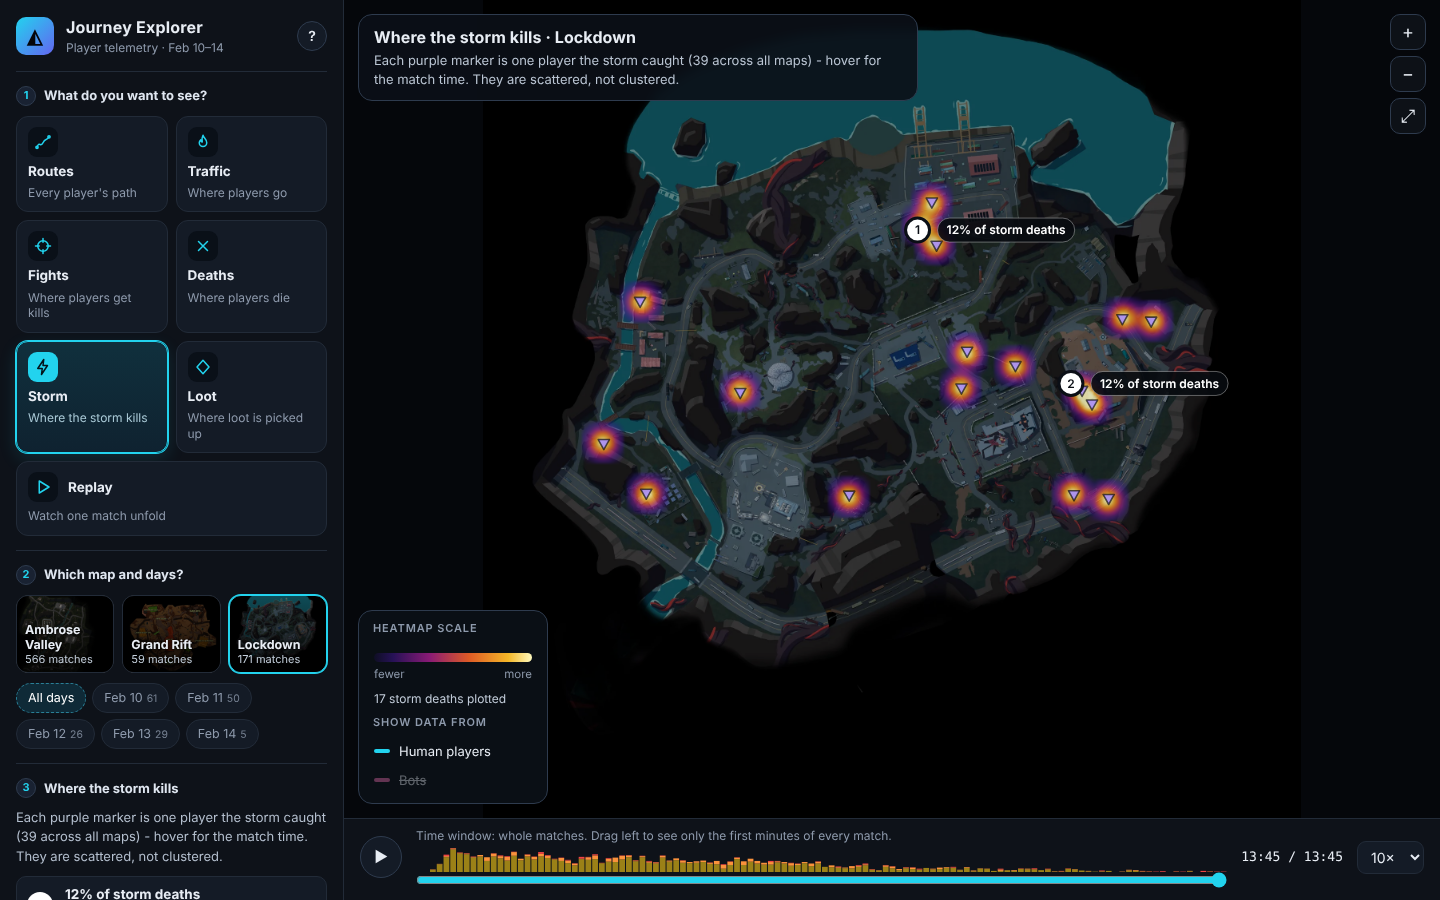
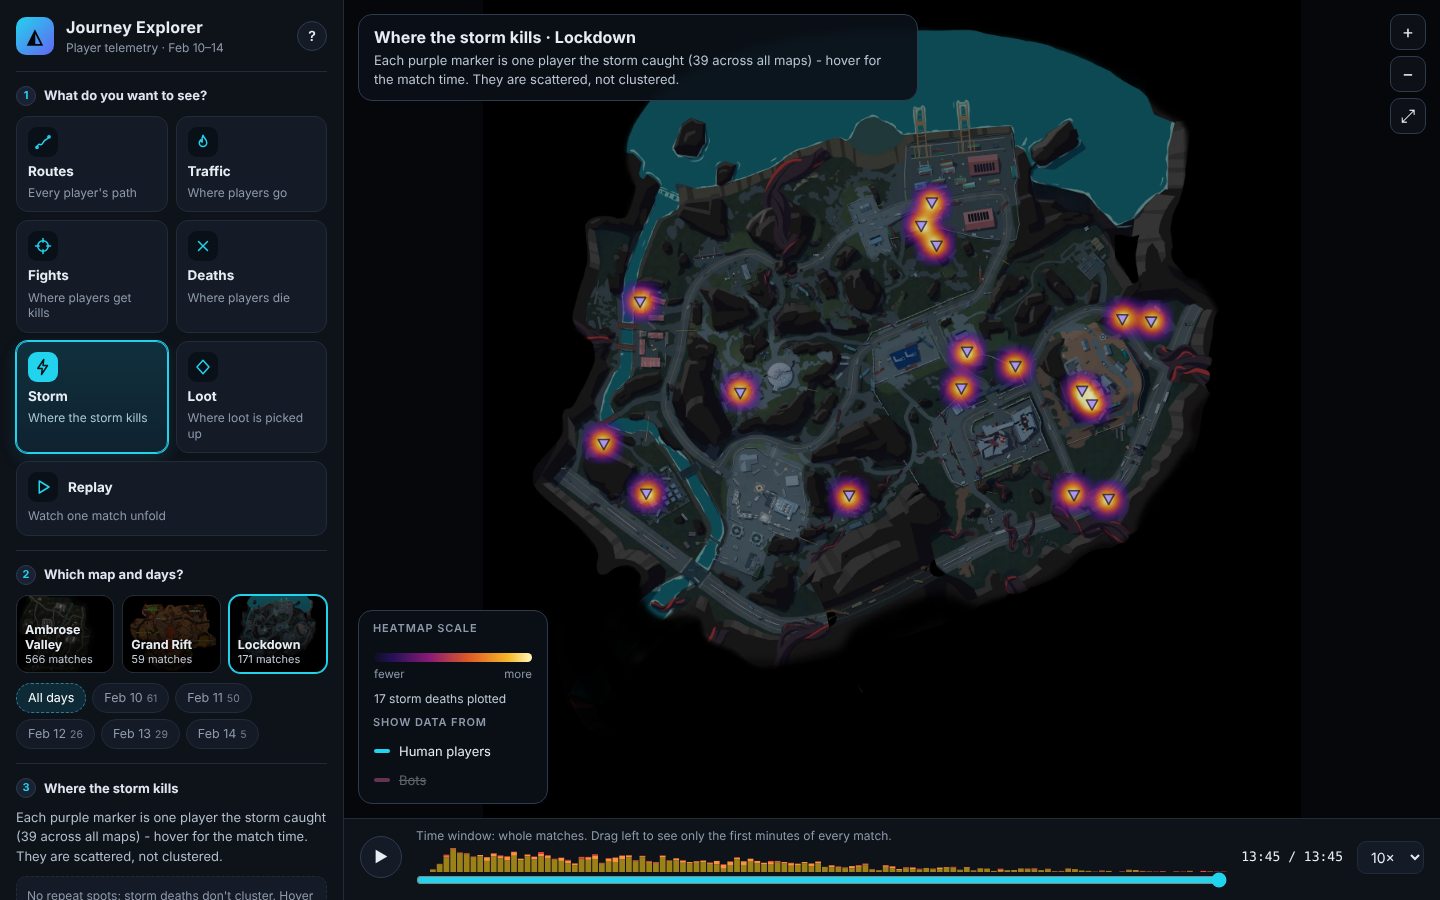
Storm view: markers only, no hotspot ranking for 39 scattered events
Claude-Session: https://claude.ai/code/session_01LqkPCYTtu47F2iUoWp1pkS

Changed region(s): [[0.0, 0.9644, 0.2188, 1.0], [0.625, 0.2178, 0.75, 0.28], [0.7188, 0.4044, 0.8438, 0.4667]]

diff --git a/web/js/main.js b/web/js/main.js
@@ -126,7 +126,8 @@ function computeHot(tc) {
   const G = 16, L = LENSES[S.lens], info = index.maps[S.map], cellM = Math.round(info.scale / G), o = { humans: S.humans, bots: S.bots, tc };
   const main = coarseCounts(sel, HEAT_MODES[S.heat].codes, o, G);
   const base = S.heat === 'deaths' ? coarseCounts(sel, [EV.Position, EV.BotPosition], o, G) : null;
-  const order = [...main.counts.keys()].filter(i => main.counts[i] >= 2).sort((a, b) => main.counts[b] - main.counts[a]);
+  const order = S.lens === 'storm' ? [] : [...main.counts.keys()].filter(i => main.counts[i] >= 2)   // 39 storm deaths never repeat a spot: show markers, not rankings
+   .sort((a, b) => main.counts[b] - main.counts[a]);
   const picked = [];
   for (const i of order) {
     const cx = i % G, cy = Math.floor(i / G);
